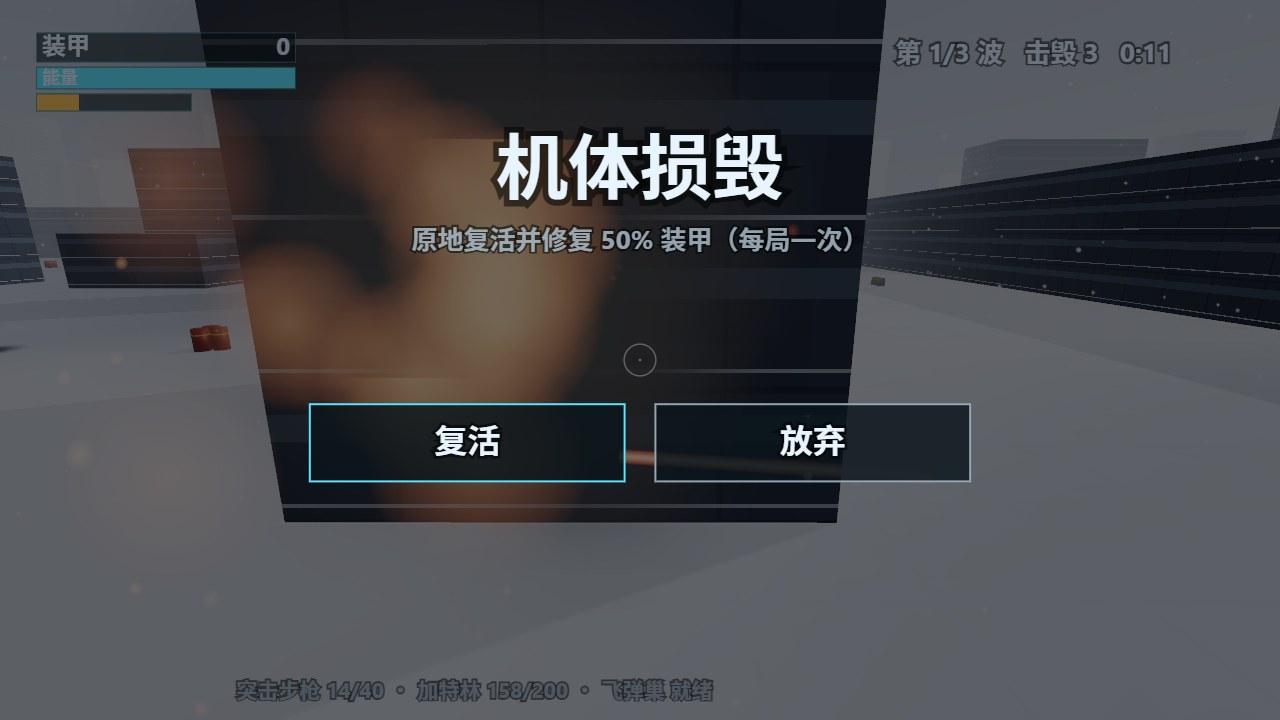
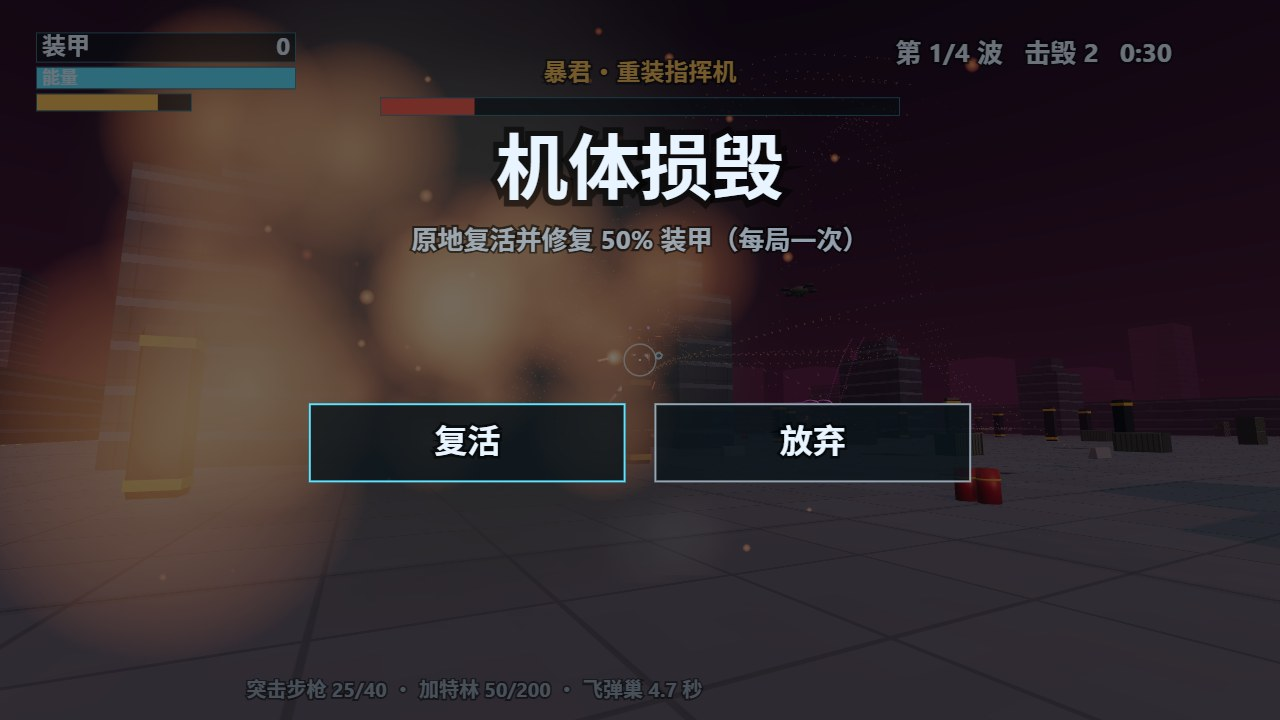
wechat review: boss close-up without held armor, revive panel from a real death, separate mission-select frame

diff --git a/wechat/review/collect.py b/wechat/review/collect.py
@@ -39,7 +39,7 @@ GROUPS = {
         ('rv_role_boss.jpg', '04_敌方头目_暴君.jpg'),
     ],
     '5_系统功能': [
-        ('rv_title.jpg', '系统1_任务选择.jpg'),
+        ('rv_sys_select.jpg', '系统1_任务选择.jpg'),
         ('rv_title_locked_toast.jpg', '系统1_未解锁任务.jpg'),
         ('rv_sys_overdrive.jpg', '系统2_超载启动.jpg'),
         ('rv_sys_reload.jpg', '系统2_武器装填中.jpg'),

diff --git a/wechat/README.md b/wechat/README.md
@@ -83,8 +83,9 @@ How the frames were set up, so they can be retaken:
 - **Banner shots**: run the autopilot (`sim(1)` steps) until `#banner` shows the wanted text. Then turn the autopilot off, try six camera headings for 18 frames each, keep the one with the longest camera-to-mech distance, and shoot. main.js clears the banner after 2.8 s of `step()`, so the heading search must fit inside that window; re-adding `show` afterwards does not work.
 - **Hints**: hide `#hint` before shooting. The autopilot dashes until it overheats, and the 能量过热 hint otherwise ends up in every frame.
 - **Hangar shots**: reload the page first, so the hangar does not show the last mission's world (the boss hovering behind the mech). Tabs sit at x = 0.42W + (i + 0.5)·(W − 0.35u − 0.42W)/7, y = 0.775u. The paint swatches are on the 机体 tab.
-- **Boss close-ups**: move the mech to 15 m in front of the boss along the camera's forward direction.
-- **Revive**: clamp hp to 1 every frame until the state becomes `revive`.
+- **Boss close-ups**: the autopilot holds the tyrant about 50 m off, too small to read, and 幻影 up close is mostly beam glow. So the mech is moved 15 m in front of the tyrant along the camera's forward direction (a spot a player can fly to), then 40 frames run normally. Armor is not touched.
+- **Revive**: a real death: 头目连战 on 王牌 with the autopilot, `sim(2)` until armor is under 30%, then `step(1)` until the state becomes `revive` (about 30 s of game time).
+- **系统1** uses its own title frame (6/35 暴雨) instead of the 1_场景 one.
 - **Splash**: shot about 1 s after reload, while `SPL.min` (3 s) still holds it on screen.
 
 ## Testing without WeChat DevTools
